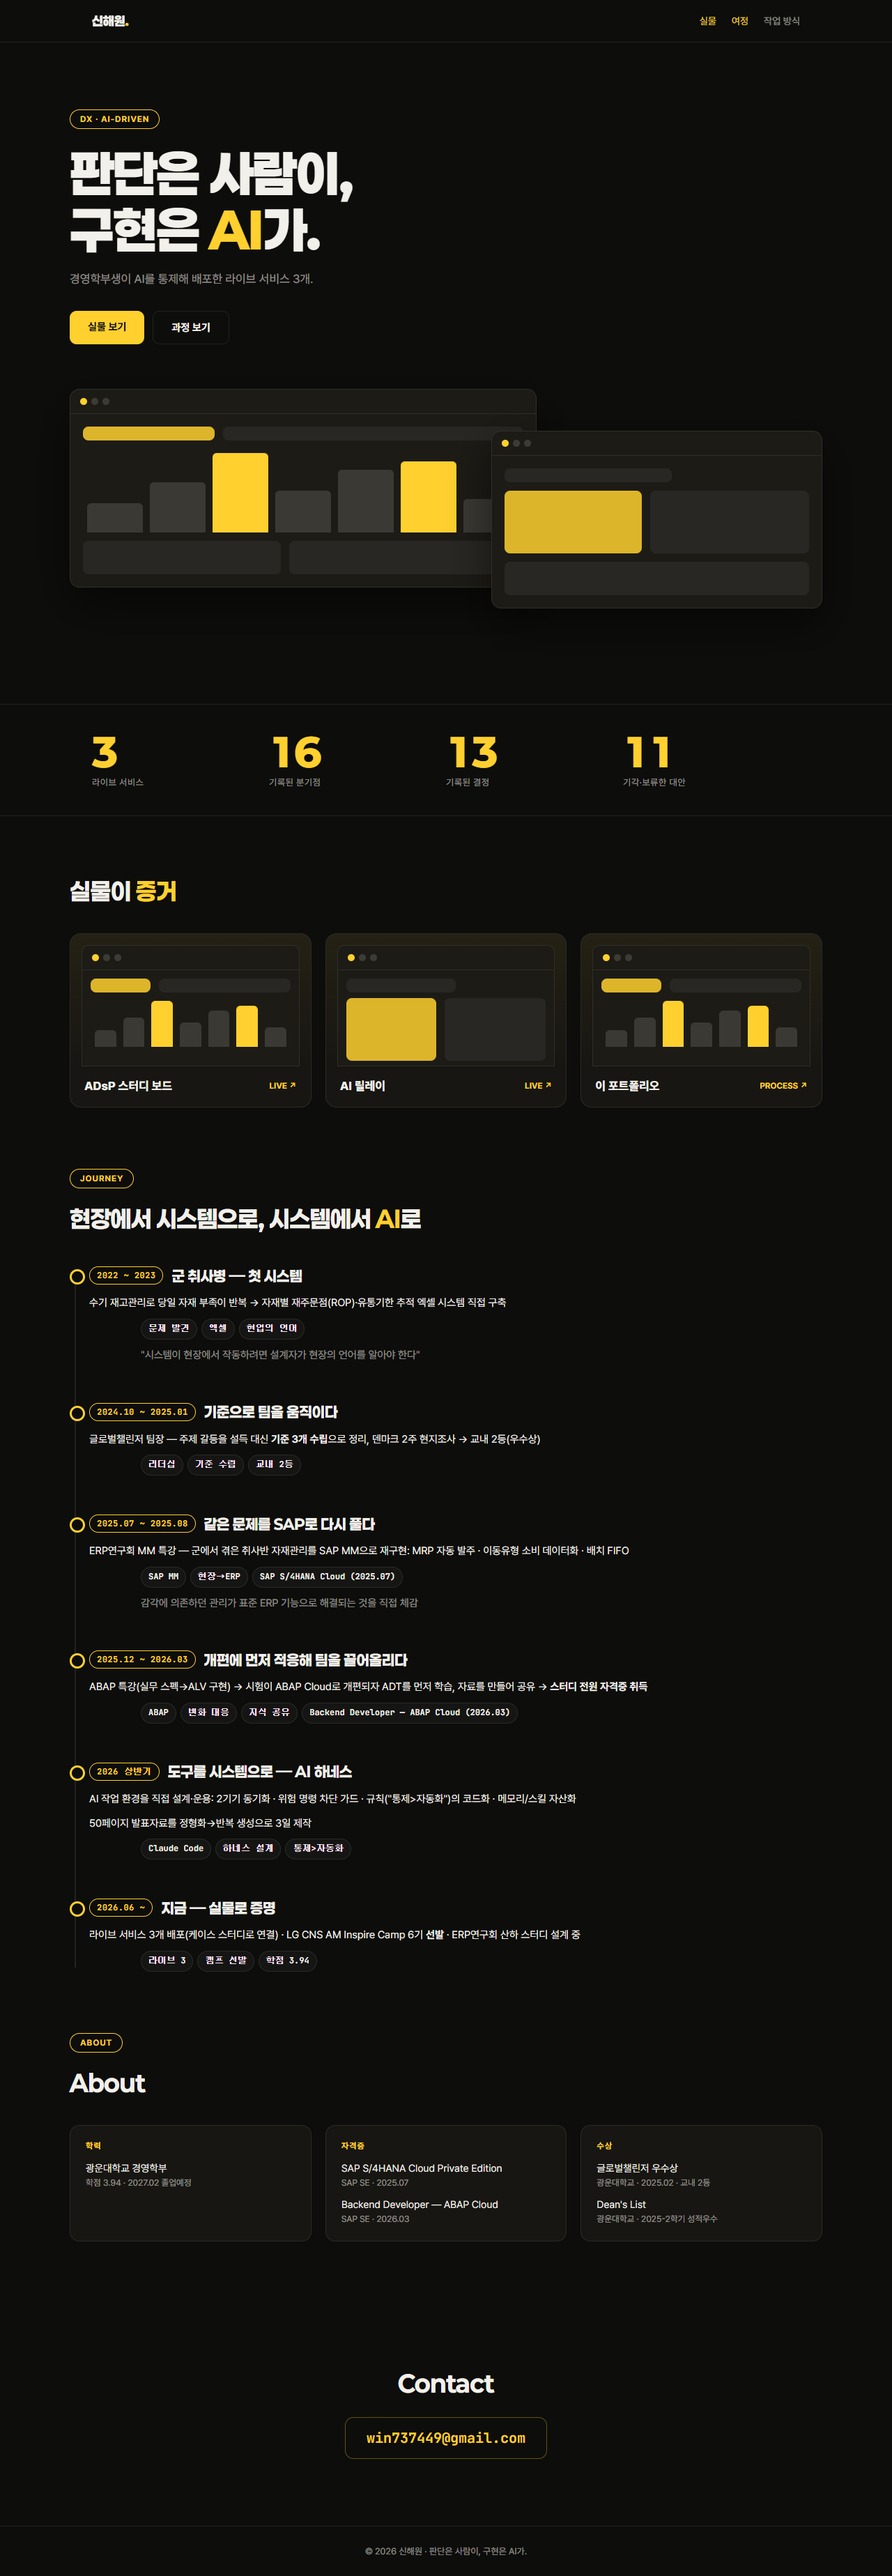
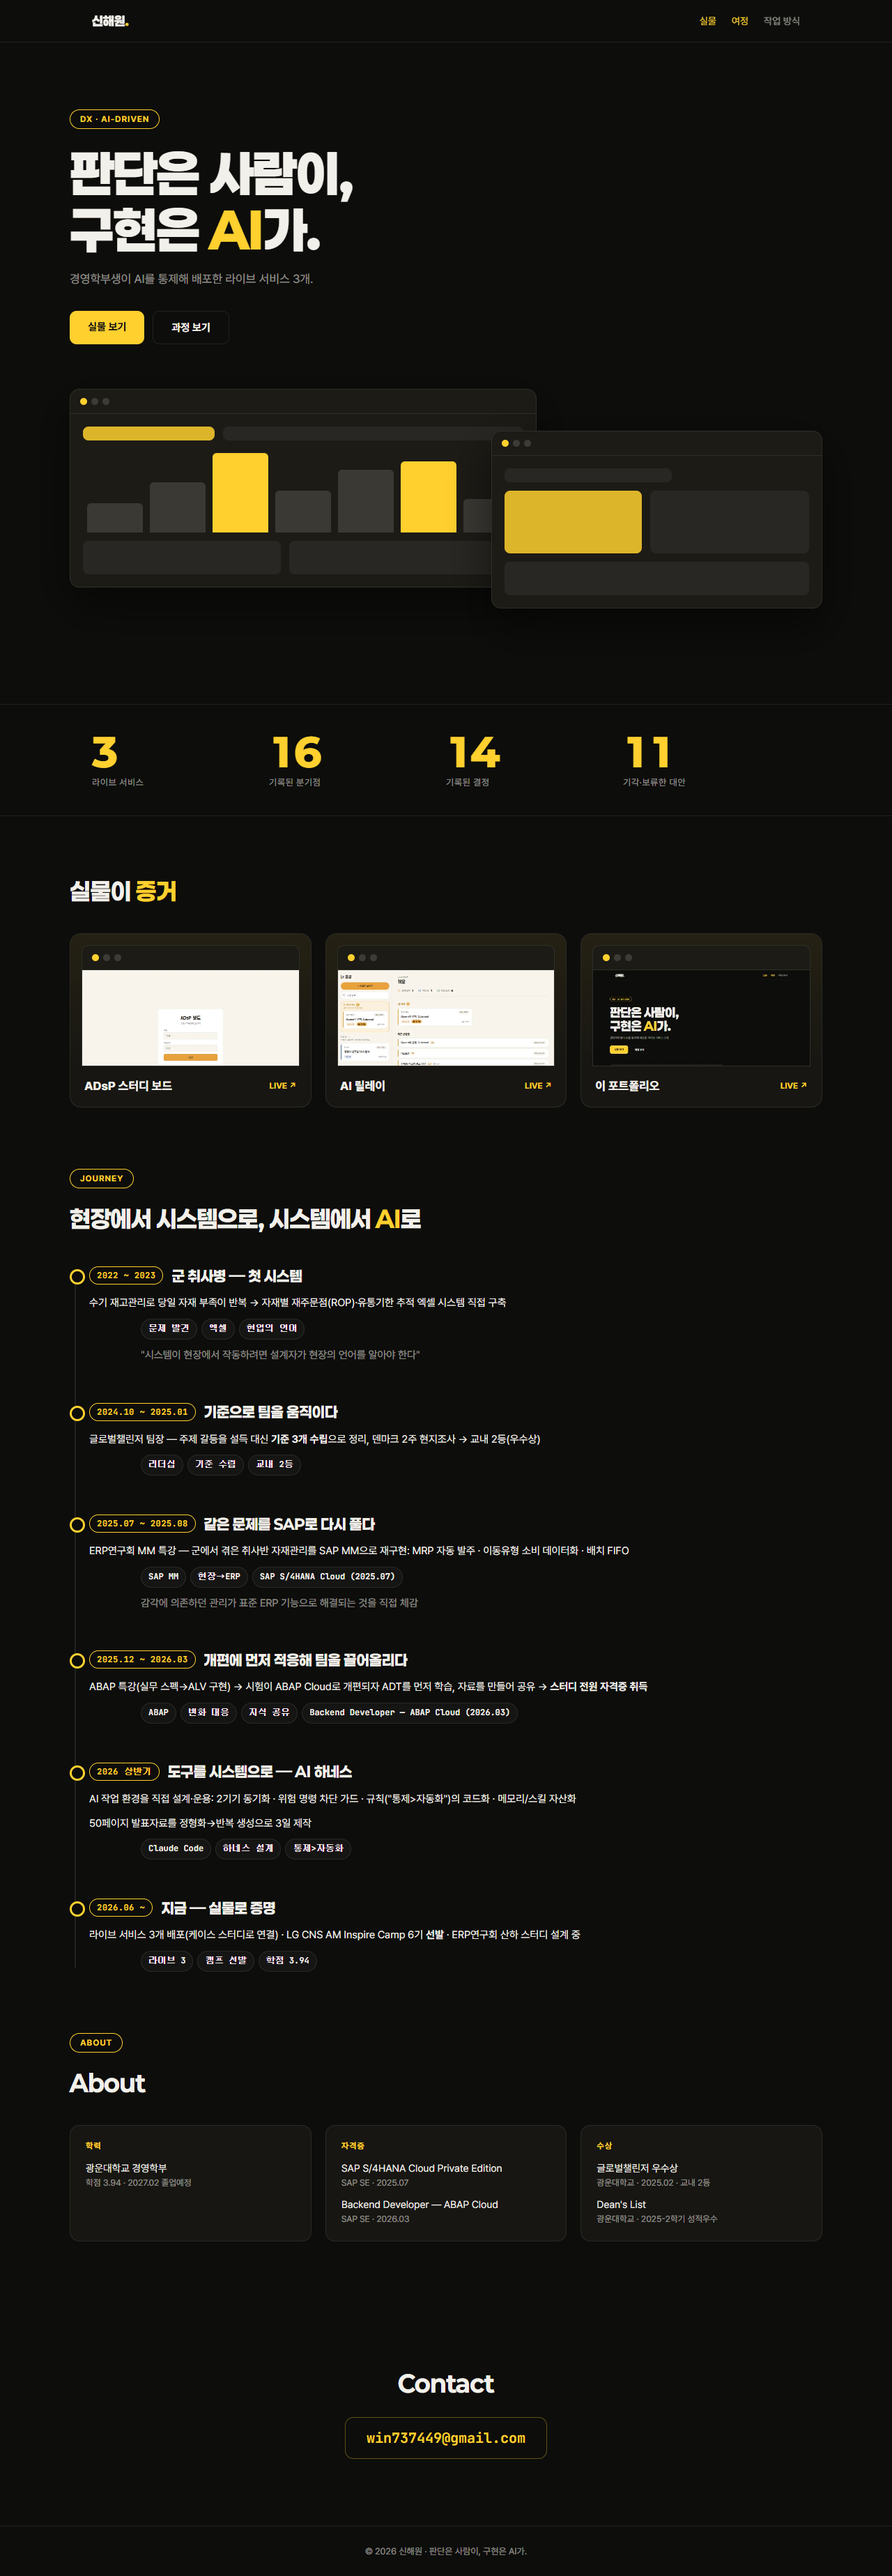
docs: 캡처 갱신·README 백로그 반영
3뷰포트(390/1280/1920) 재캡처(오버플로우 0)·README 다음 할 일에서
완료된 1·2번 제거(owner 결정 대기 2건 유지).

Claude-Session: https://claude.ai/code/session_01M65TXw67wTUC7Q5JziDGze

diff --git a/README.md b/README.md
@@ -18,7 +18,5 @@
 
 ## 다음 할 일
 
-1. 카드 썸네일을 CSS 목업 → 라이브 실스크린샷으로 교체 (1순위)
-2. favicon 추가(스캐폴드 기본값 삭제 후 미부착 상태)
-3. ai-relay 첫 노드 ⊘기각 인라인을 곁가지 불릿으로 분리할지 — 원고 형식, owner 결정 대기
-4. kwu-erpclub.github.io 링크를 사이트에 추가할지 — owner 결정 대기
+1. ai-relay 첫 노드 ⊘기각 인라인을 곁가지 불릿으로 분리할지 — 원고 형식, owner 결정 대기
+2. kwu-erpclub.github.io 링크를 사이트에 추가할지 — owner 결정 대기
